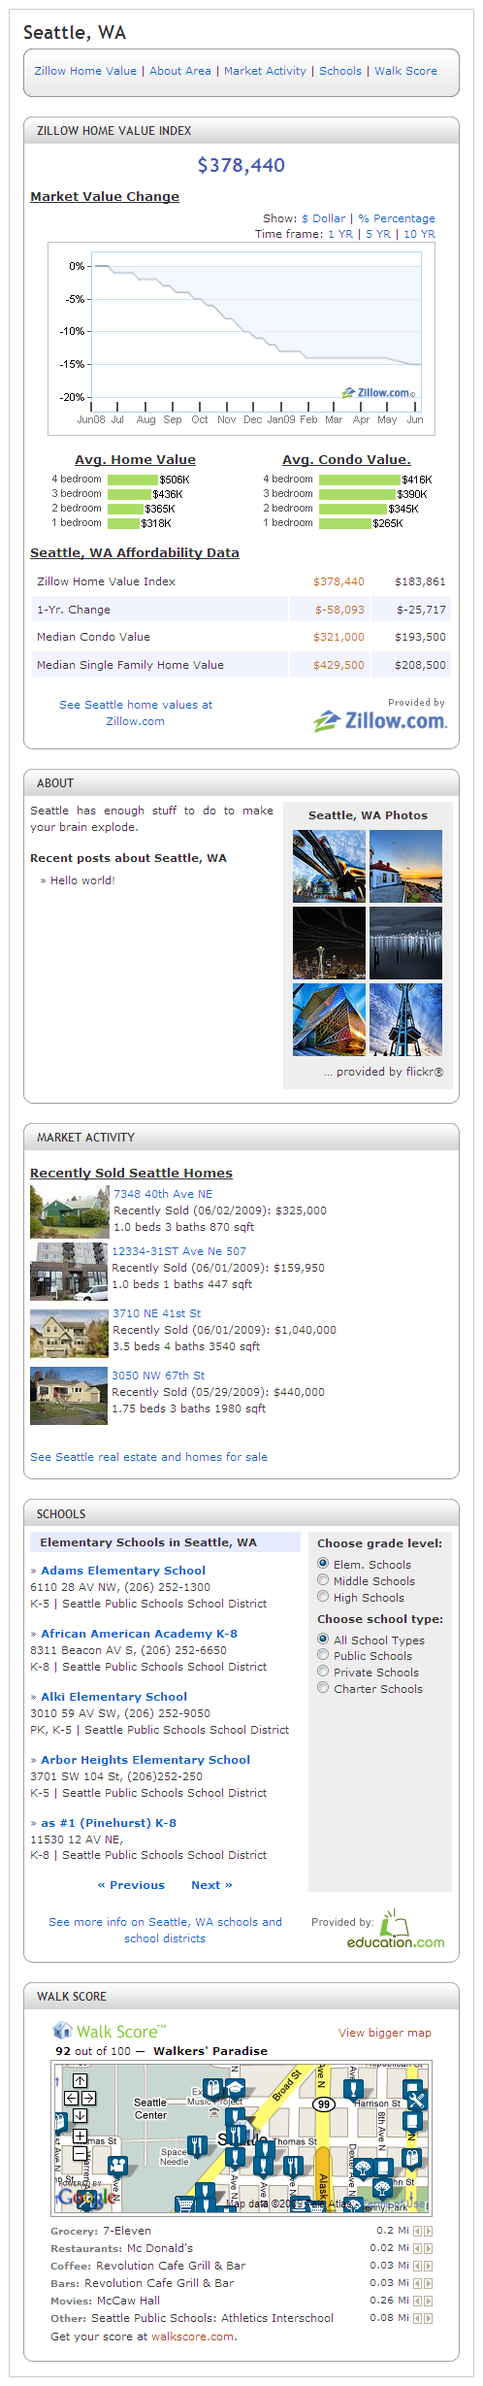
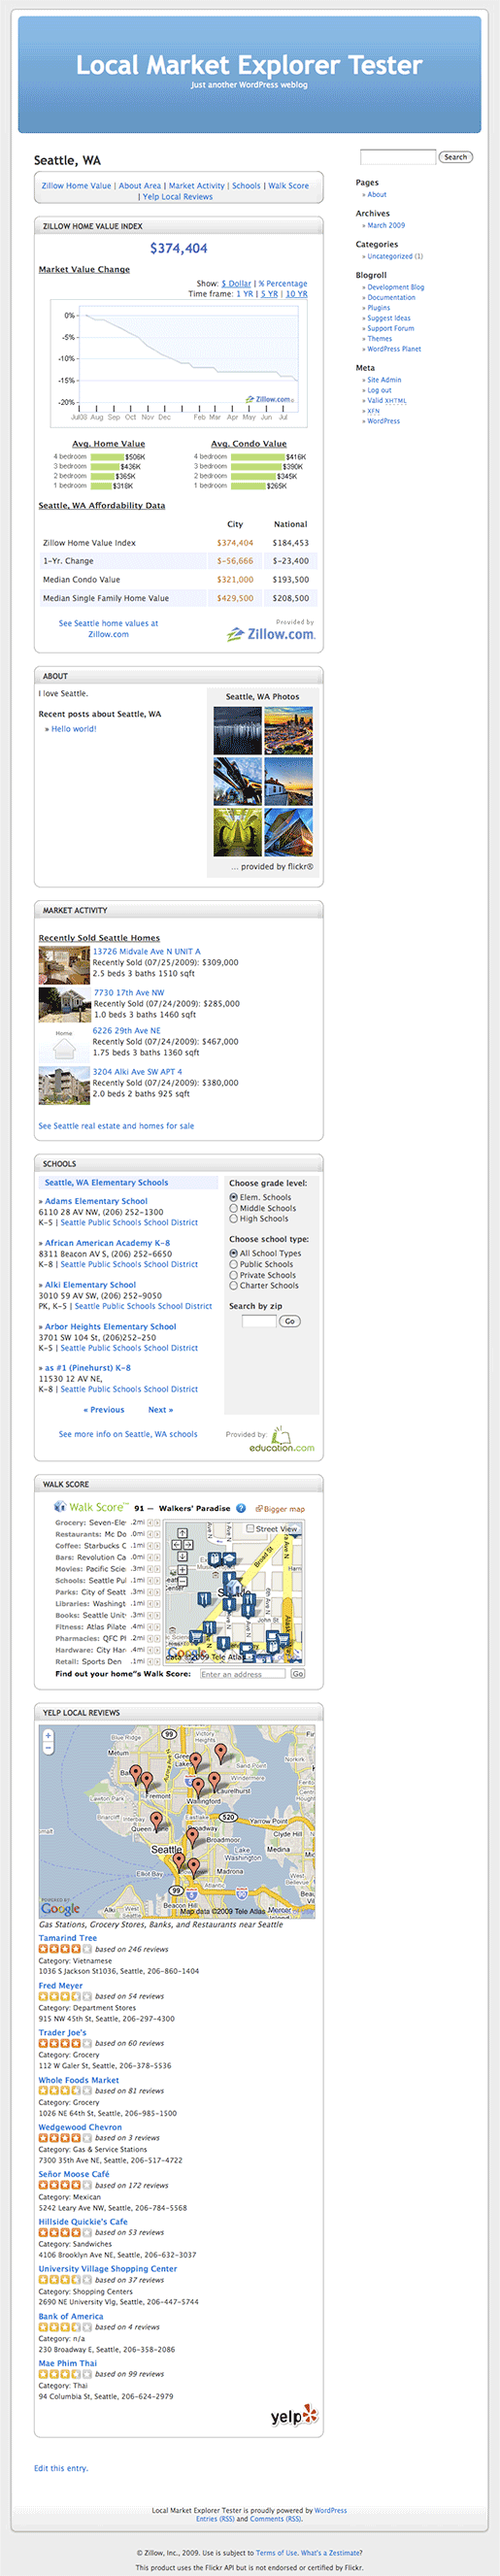
* versioned for 1.0-b18 * changed "Zillow Home Value Index" to "Market Statistics" * updated screenshot
git-svn-id: https://plugins.svn.wordpress.org/local-market-explorer/trunk@140013 b8457f37-d9ea-0310-8a92-e5e31aec5664

diff --git a/lme-client.php b/lme-client.php
@@ -226,7 +226,7 @@ LME_CONTENT;
 				<div class="lme_container">
 					<div class="lme_container_top lme_container_cap">
 						<div class="lme_container_top_left lme_container_left"></div>
-						<h3>Zillow Home Value Index</h3>
+						<h3>Market Statistics</h3>
 						<div class="lme_container_top_right lme_container_right"></div>
 					</div>
 					<div id="lme_zillow_index" class="lme_container_body">{$home_value_data}</div>
@@ -828,7 +828,7 @@ HTML;
 			<div id="lme_walk_score_container">
 				<script type="text/javascript">
 					var ws_wsid = "{$walkscore_api_key}";
-					var ws_address = "1501 Pike Place, Seattle, WA, 98101";
+					var ws_address = "{$this->city},{$this->state}";
 					var ws_width = "400";
 					var ws_height = "286";
 					var ws_layout = "horizontal";

diff --git a/lme.php b/lme.php
@@ -3,7 +3,7 @@
 Plugin Name: Local Market Explorer
 Plugin URI: http://wordpress.org/extend/plugins/local-market-explorer/
 Description: This plugin allows WordPress to load data from a number of real estate and neighborhood APIs to be presented all within a single page in WordPress.
-Version: 1.0-b17
+Version: 1.0-b18
 Author: Andrew Mattie & Jonathan Mabe
 */
 
